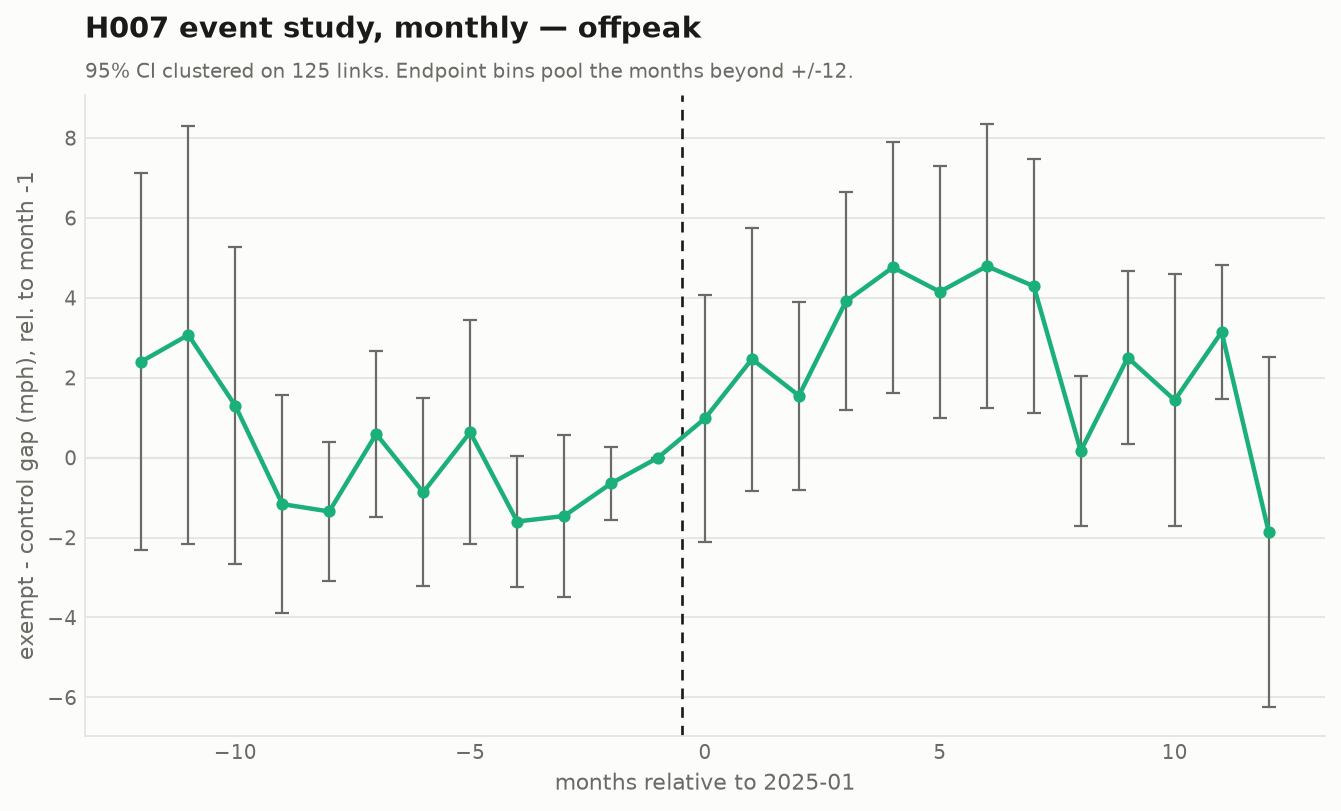
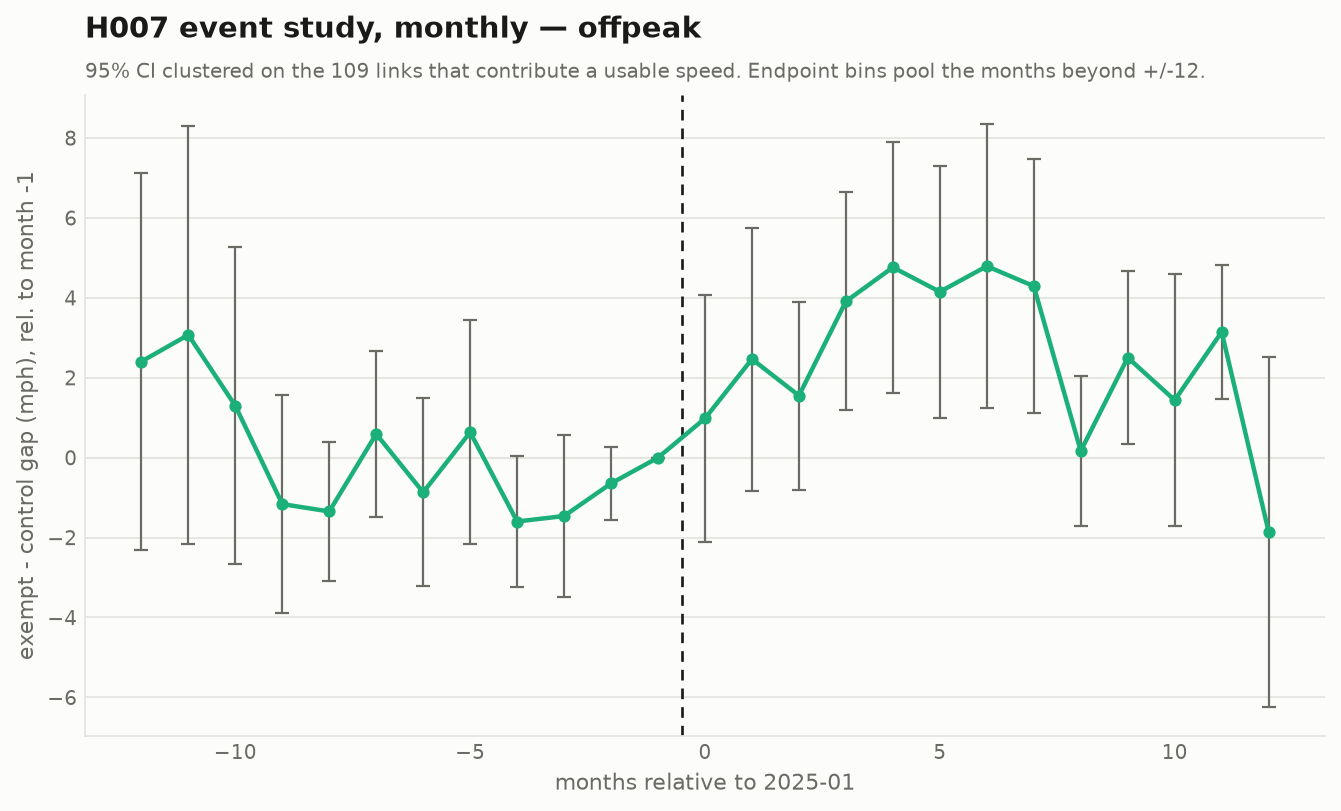
Tidy the H007 record and its zero-rate figures
The Result read as though the Notes overstated the overnight zero rate.
Both are right on their own window: 56%/38% is 2025 alone, which the
exploratory query covered, and 47.8%/28.8% is the full 2023-01 .. 2026-05
window the analysis uses. Says so now, in the record and in AGENTS.md.

Also moves a roster paragraph back under Notes where it belongs, and
records that presence was only half the story -- the treated side loses
no links from the feed and still falls from 8 contributors to 6.

Reran artefacts are numerically identical; only run_at moves.

Changed region(s): [[0.214, 0.0617, 0.8867, 0.1233]]

diff --git a/docs/hypotheses/H007-secondary-feed-diversion.md b/docs/hypotheses/H007-secondary-feed-diversion.md
@@ -217,14 +217,15 @@ link_ids `4616339` and `4616340` held out by id.
 **The zero-speed diagnosis replicates**, measured independently on all 42.2M
 rows. 9,129,474 readings carry `speed = 0`; 9,128,628 of them also carry
 `travel_time = 0`; and all 9,129,474 carry `status = -101`. The hourly profile
-is the inverse of congestion, though the figures under Notes are higher than
-what reproduces here: on the nine treated links the zero rate peaks at
-47.8% at 03:00 against 28.8–29.4% through the afternoon, and feed-wide at 25.9%
-against about 20.4%, not the 56% and 38% quoted there. The yearly divergence
-reproduces exactly — treated 16.0%, 32.8%, 42.4%, 48.7% across 2023–2026
-against 21.3%, 19.2%, 20.5%, 23.4% elsewhere. One qualification on the third
-signature: `status = -101` also accompanies 2,180,196 readings with a positive
-speed, so the status flag alone does not identify an outage. `speed = 0` does.
+inverts the congestion pattern, as the Notes describe. Over the full 2023-01 …
+2026-05 window the zero rate on the nine treated links peaks at 47.8% at 03:00
+against 28.8–29.4% through the afternoon, and feed-wide at 25.9% against about
+20.4%; the 56% and 38% quoted under Notes are the same statistic on 2025 alone,
+which is what the exploratory query covered. The yearly divergence reproduces
+exactly — treated 16.0%, 32.8%, 42.4%, 48.7% across 2023–2026 against 21.3%,
+19.2%, 20.5%, 23.4% elsewhere. One qualification on the third signature:
+`status = -101` also accompanies 2,180,196 readings with a positive speed, so
+the status flag alone does not identify an outage. `speed = 0` does.
 
 ### 1. Availability — the gate, and it fails first
 
@@ -499,7 +500,10 @@ have moved them into the control group. The held-out list stands as written.
 reporting in autumn 2024 and never returned. The control group here falls from
 115 reporting links in 2023 to 102–103 from 2024 on. The panel is unbalanced and
 must be treated as such; the availability diagnostic exists partly to measure
-this.
+this. **Confirmed on running, and presence turned out to be only half of it.**
+Of the 116 control links present pre-treatment, 94 contribute a usable speed;
+of the 103 present post-treatment, 96 do. The treated side loses no links from
+the feed at all and still falls from 8 contributors to 6.
 
 **Independent verification, 2026-09-13, by the session that registered this
 record.** The deciding number was recomputed from `data/raw/dot_speeds/*.parquet`
@@ -519,10 +523,9 @@ but both are right and measure different windows: 56.2% at 03:00 against a 38.3%
 afternoon mean is 2025 alone, which is what the exploratory query covered, while
 47.5% against 28.6% is the full 2023-01 … 2026-05 window the analysis uses. The
 signature that matters — the zero rate peaking overnight, inverting the
-congestion pattern — holds on both. Nothing in the verdict turns on it. **Confirmed on running, and presence turned out to be only half of it.**
-Of the 116 control links present pre-treatment, 94 contribute a usable speed;
-of the 103 present post-treatment, 96 do. The treated side loses no links from
-the feed at all and still falls from 8 contributors to 6.
+congestion pattern — holds on both. Nothing in the verdict turns on it. The
+Result has been reworded to say so rather than to imply the Notes overstated
+anything.
 
 **No owner decision was adopted.** D3 concerns four northern 11th Avenue
 segments on the *primary* E-Z Pass roster (`108104`, `116080`, `80108`,

diff --git a/AGENTS.md b/AGENTS.md
@@ -98,9 +98,9 @@ and a dated entry, rather than defaulting one into the panel.
   downsample is client-side for this reason.
 - **On the secondary feed, `speed = 0` means OUTAGE, not standstill.** 9,129,474
   of 42.2M readings; 9,128,628 of those also carry `travel_time = 0`, all carry
-  `status = -101`, and the rate peaks overnight (47.8% at 03:00 on the exempt
-  in-zone links against 28.8% through the afternoon) — the inverse of a
-  congestion pattern. Filter on `speed > 0`; never average them in as 0 mph.
+  `status = -101`, and the rate peaks overnight (on the exempt in-zone links,
+  47.8% at 03:00 against 28.8% through the afternoon over 2023-01 … 2026-05)
+  — the inverse of a congestion pattern. Filter on `speed > 0`; never average them in as 0 mph.
   `status = -101` alone does not identify them, since it also accompanies 2.18M
   positive readings. `src/analysis/spillover_diagnostics.py` gets this wrong and
   its output is superseded by `data/processed/secondary_hourly_panel.parquet`.
